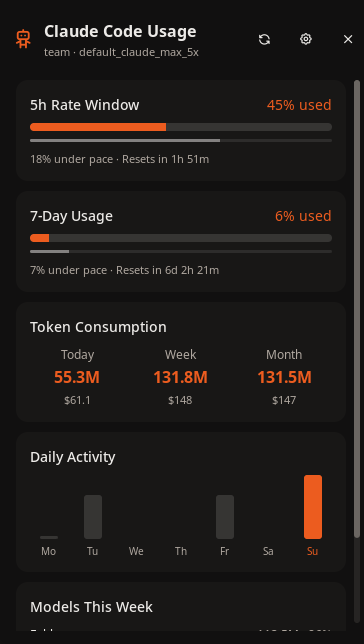
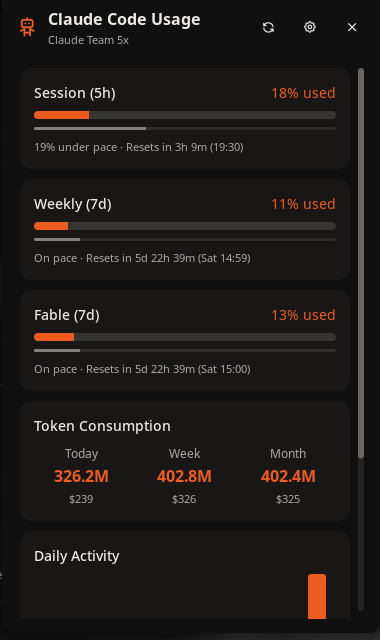
Refresh the screenshots
All three were taken before the last few changes and now misrepresent the
plugin: the bar pill was captured in the glyph style so the ring never appeared,
and neither panel showed the model-scoped weekly window, which is the whole
point of the rate-window rework. The panel shots also still carried the raw
account tokens rather than "Claude Team 5x".

- bar-pill.png: ring style, at 3x so the arc survives being scaled down again
- panel.png: Session (5h) / Weekly (7d) / Fable (7d)
- desktop-panel.png: the same three, plus the models breakdown
- thumbnail-source.png: recomposed from the current panel and pill

Captions updated to name the ring, pill_extras and the scoped window.

The store thumbnail still needs regenerating from the new source.

diff --git a/README.md b/README.md
@@ -10,14 +10,16 @@ plugins, and each plugin lives in its own subdirectory (here, `claudecode/`).
 
 ## Screenshots
 
-**Bar pill** (left-click opens the usage panel; hover for a summary tooltip):
+**Bar pill** — the ring style, showing the 5-hour and 7-day windows. Left-click opens
+the usage panel; hover for a summary tooltip; `pill_extras` can add the time left and
+the pace beside the percentages:
 
 <img src="assets/bar-pill.png" alt="Bar pill" width="170">
 
 <table>
   <tr>
     <td valign="top" width="50%">
-      <b>Usage panel</b> — left-click the pill<br><br>
+      <b>Usage panel</b> — a card per rate window, including the model-scoped one<br><br>
       <img src="assets/panel.png" alt="Usage panel attached to the bar">
     </td>
     <td valign="top" width="50%">
